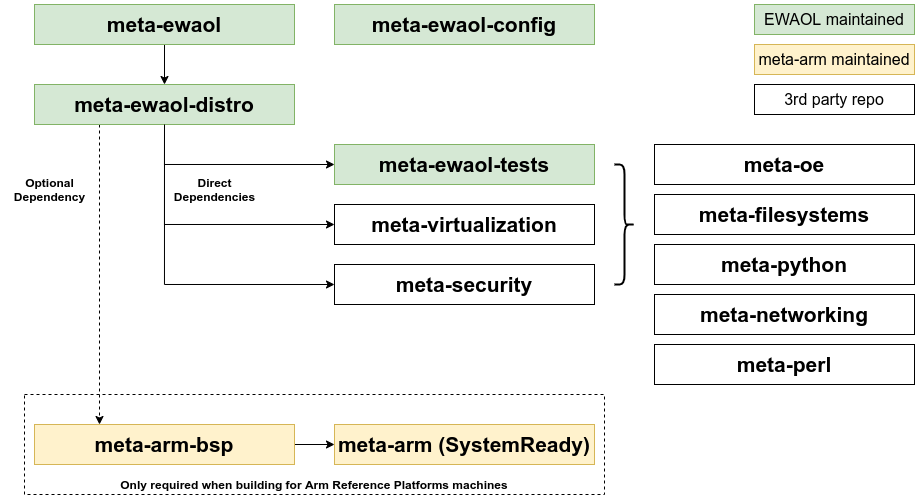
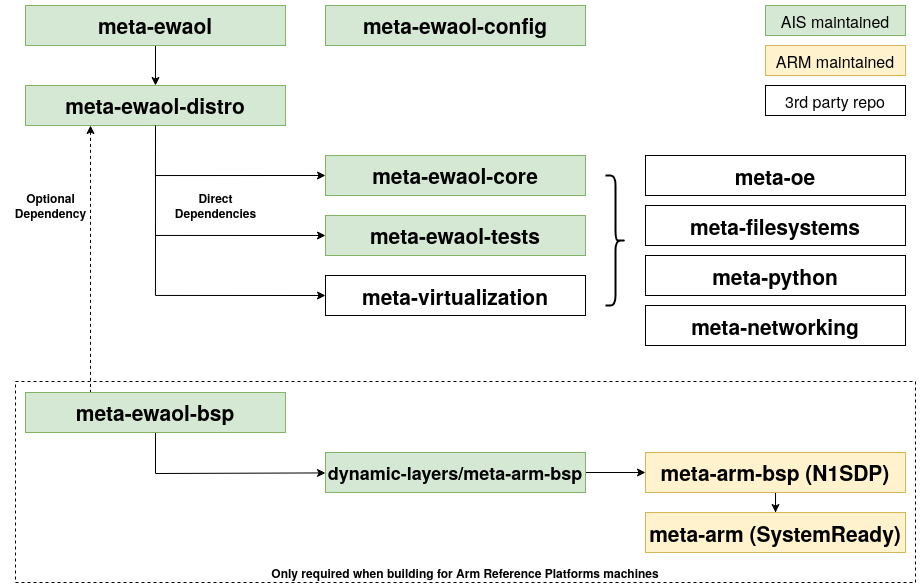
doc: Add ewaol-bsp layer documentation
This patch adds meta-ewaol-bsp layer description and updates layer dependency
chart.

Issue-Id: SCM-3722

diff --git a/documentation/overview.rst b/documentation/overview.rst
@@ -65,6 +65,10 @@ The high-level structure of the ``meta-ewaol`` repository is as follows:
   Yocto layer that provides the top-level image recipes and general policies
   available to be implemented as a EWAOL project distribution.
 
+**meta-ewaol-bsp**:
+  Directory that contains machine specific configurations files necessary for
+  some of the EWAOL images.
+
 **meta-ewaol-config**:
   Directory that contains kas configurations files for building EWAOL images.
 
@@ -105,6 +109,19 @@ The ``meta-ewaol-distro`` layer depends on:
     branch: honister
     revision: HEAD
 
+The ``meta-ewaol-bsp`` layer depends on:
+
+.. code-block:: yaml
+
+    URI: git://git.yoctoproject.org/poky
+    layers: meta
+    branch: honister
+    revision: HEAD
+
+    URI: https://gitlab.arm.com/ewaol/meta-ewaol
+    layers: meta-ewaol-distro
+    branch: honister-dev
+    revision: HEAD
 
 The ``meta-ewaol-tests`` layer depends on:
 

diff --git a/documentation/yocto-layers.rst b/documentation/yocto-layers.rst
@@ -29,11 +29,24 @@ meta-ewaol
 
   * ``meta-ewaol``
 
+    * ``meta-ewaol-bsp``
     * ``meta-ewaol-config``
     * ``meta-ewaol-distro``
     * ``meta-ewaol-tests``
     * ``documentation``
     * ``tools``
+
+meta-ewaol-bsp
+^^^^^^^^^^^^^^
+
+Yocto layer with machine specific extensions for particular EWAOL images.
+Currently this layer extends ``n1sdp`` machine definition from ``meta-arm-bsp``
+layer for EWAOL images with virtualization support. The ``meta-ewaol-bsp``
+layer contains an additional grub configuration file with Xen boot entry and a
+custom kickstart ``ewaol-n1sdp-host-efidisk.wks.in`` file. There is also a
+``xen-devicetree.bb`` recipe, to generate a devicetree with extra modules nodes
+required by Xen to start Dom0. In addition, the Xen devicetree together with a
+Xen efi binary are included into the final wic image in the ``boot`` partition.
 
 meta-ewaol-config
 ^^^^^^^^^^^^^^^^^
